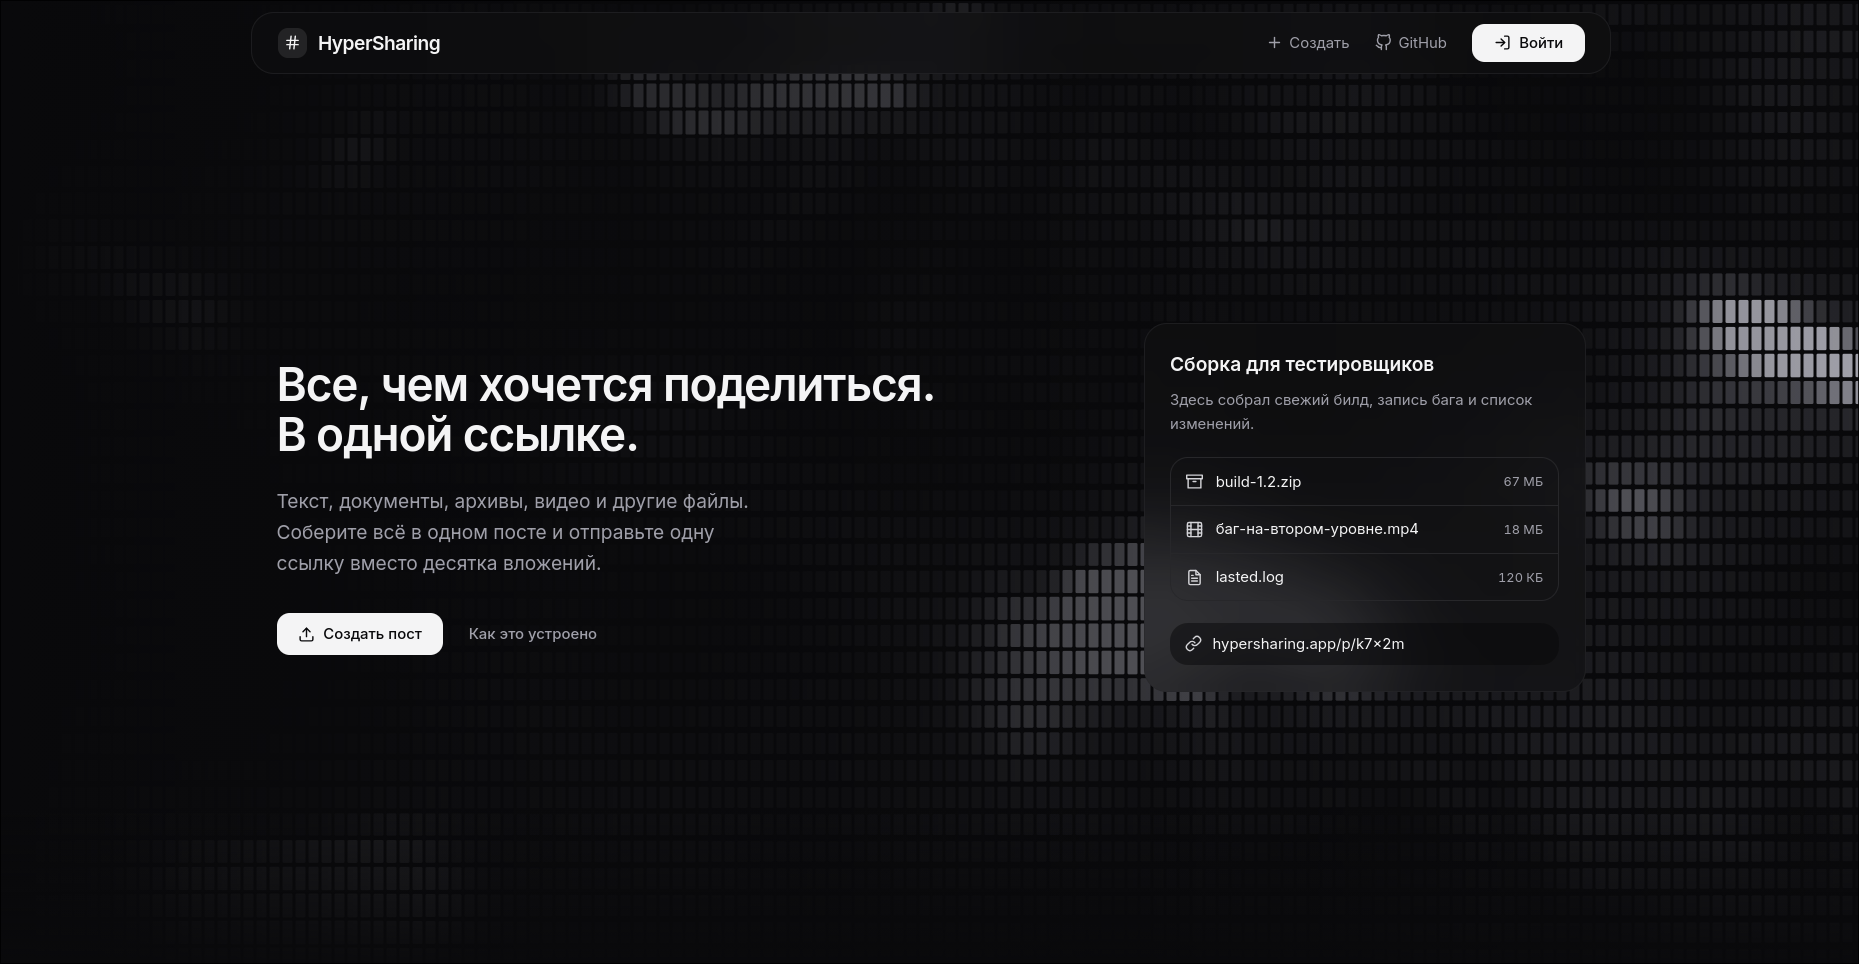
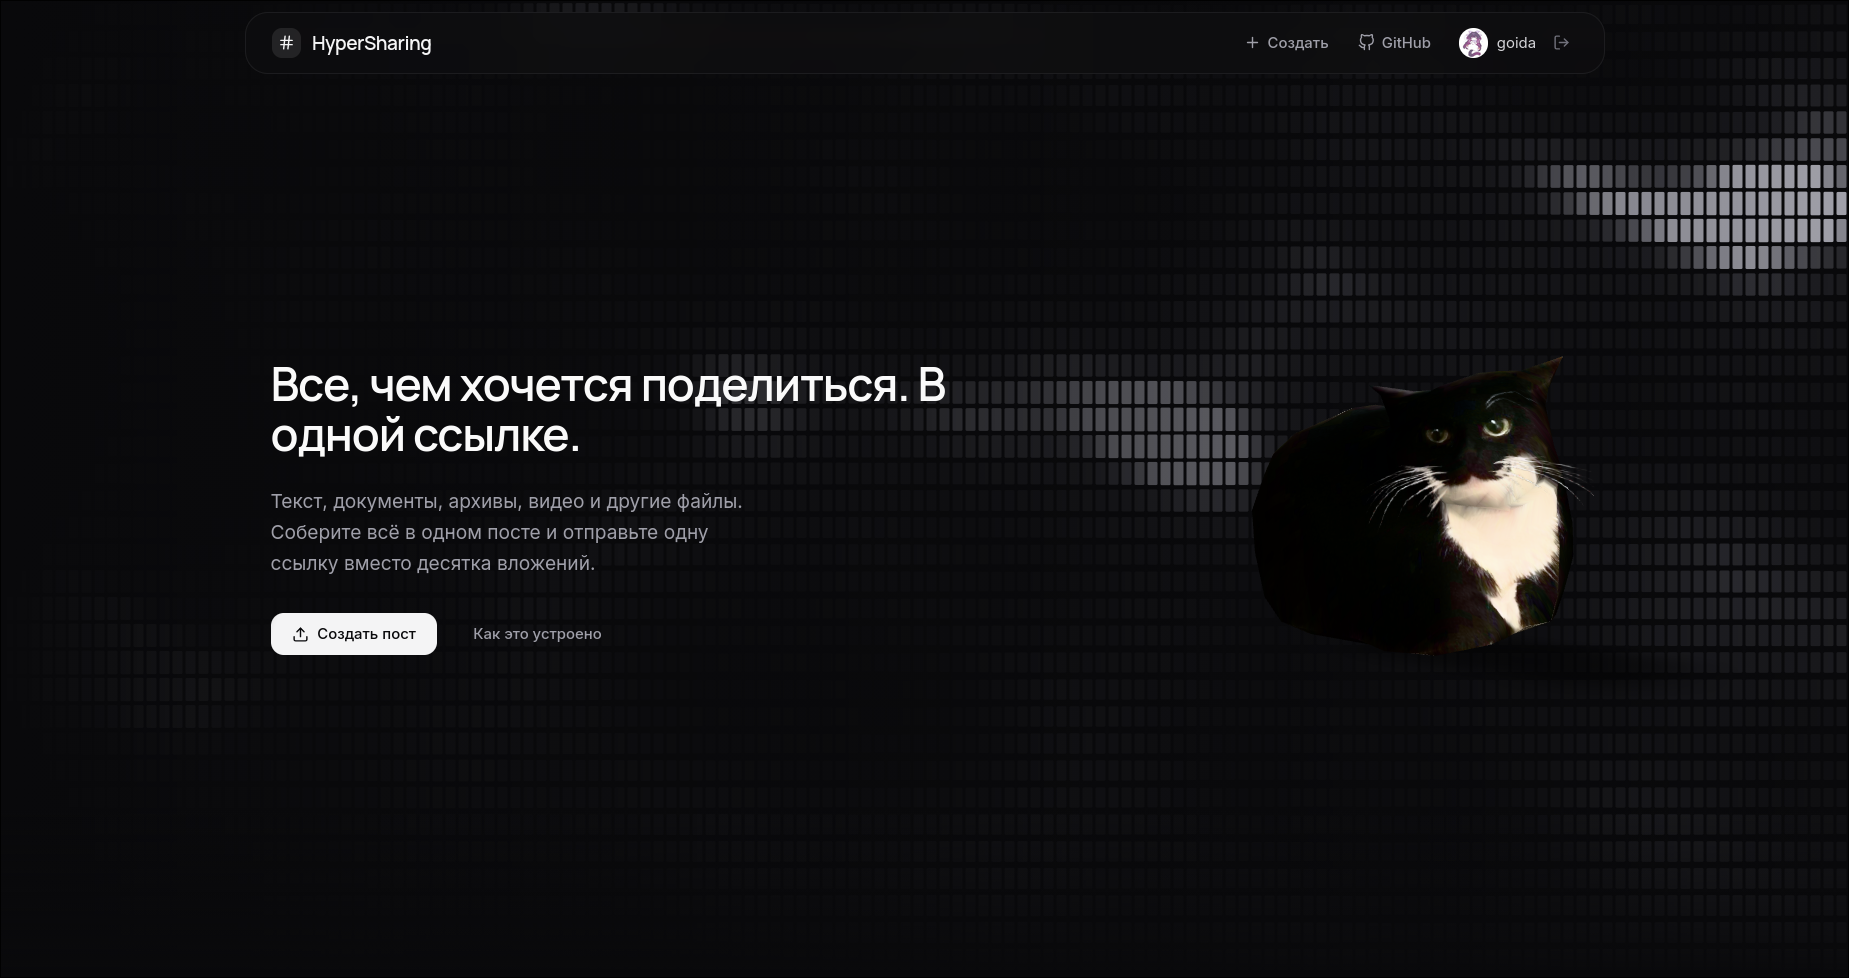
docs: update README with new preview screenshots

diff --git a/README.md b/README.md
@@ -7,4 +7,6 @@
 <p align="center">
   <img src="./preview/landing.png" width="48%" alt="Post preview">
   <img src="./preview/post.png" width="48%" alt="Profile preview">
+  <img src="./preview/post2.png" width="48%" alt="Profile preview">
+  <img src="./preview/profile.png" width="48%" alt="Profile preview">
 </p>
